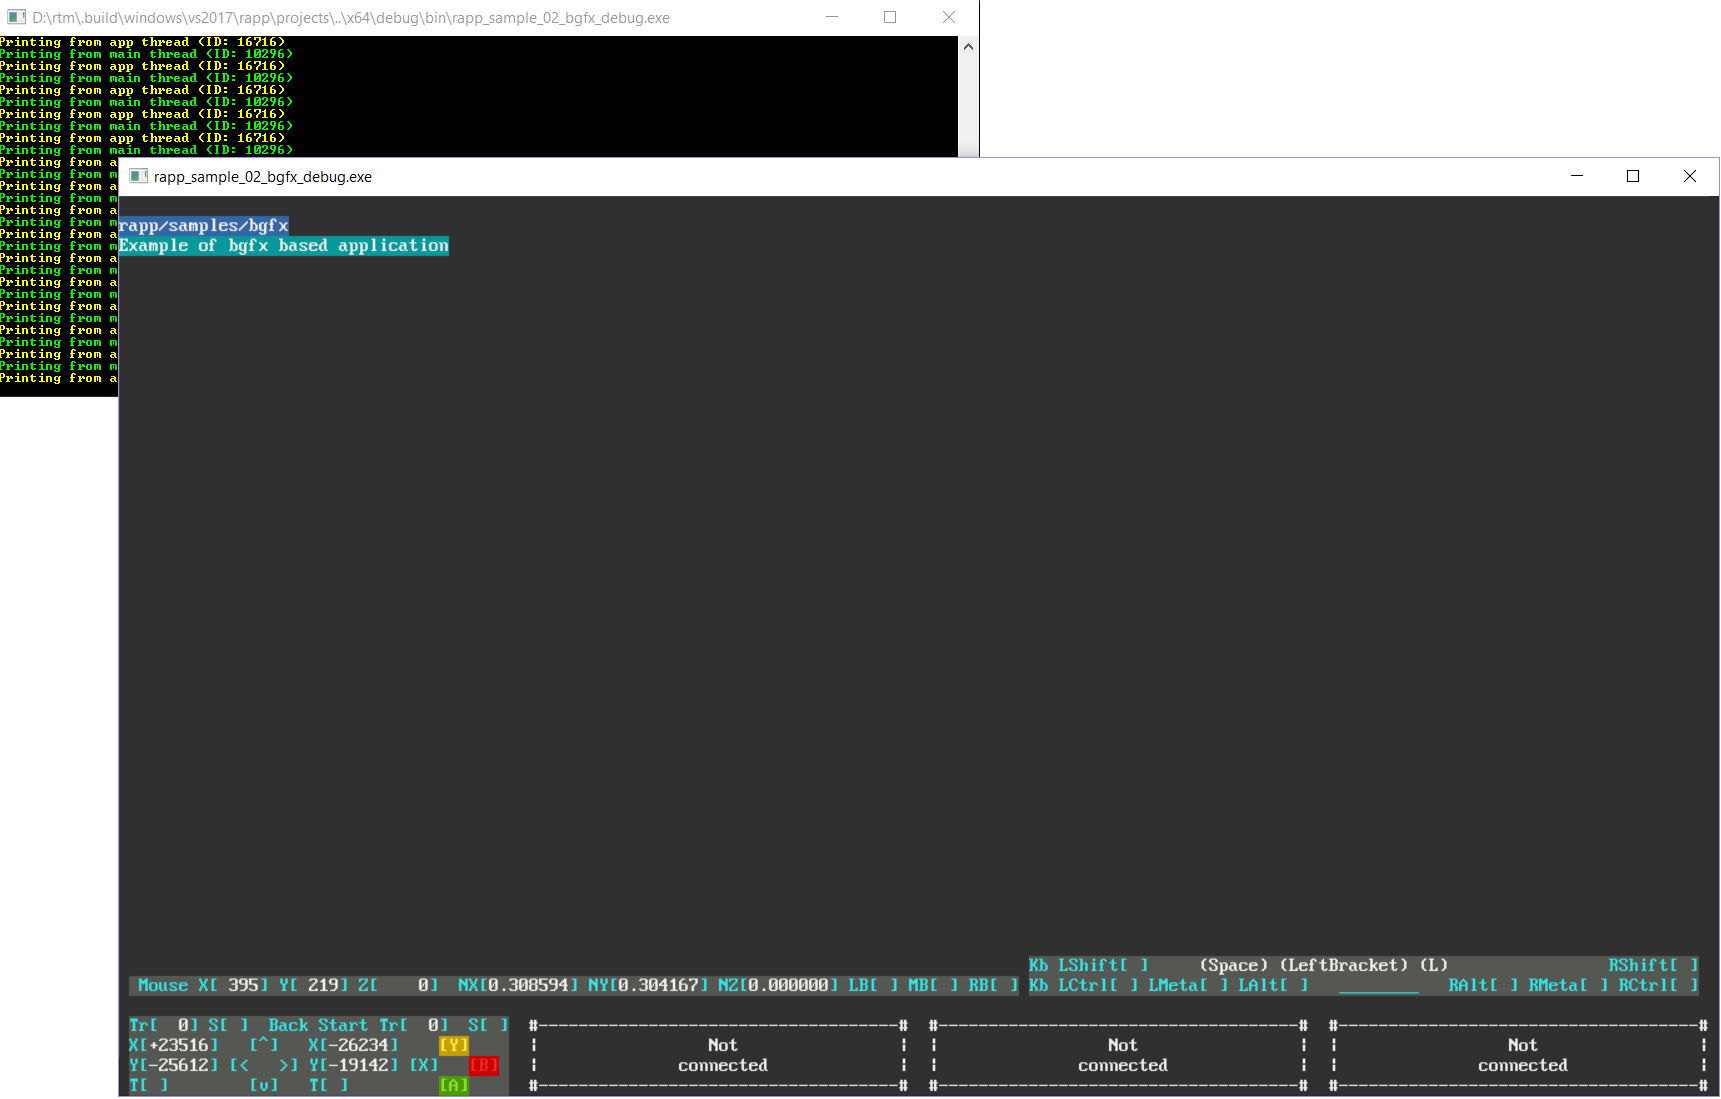
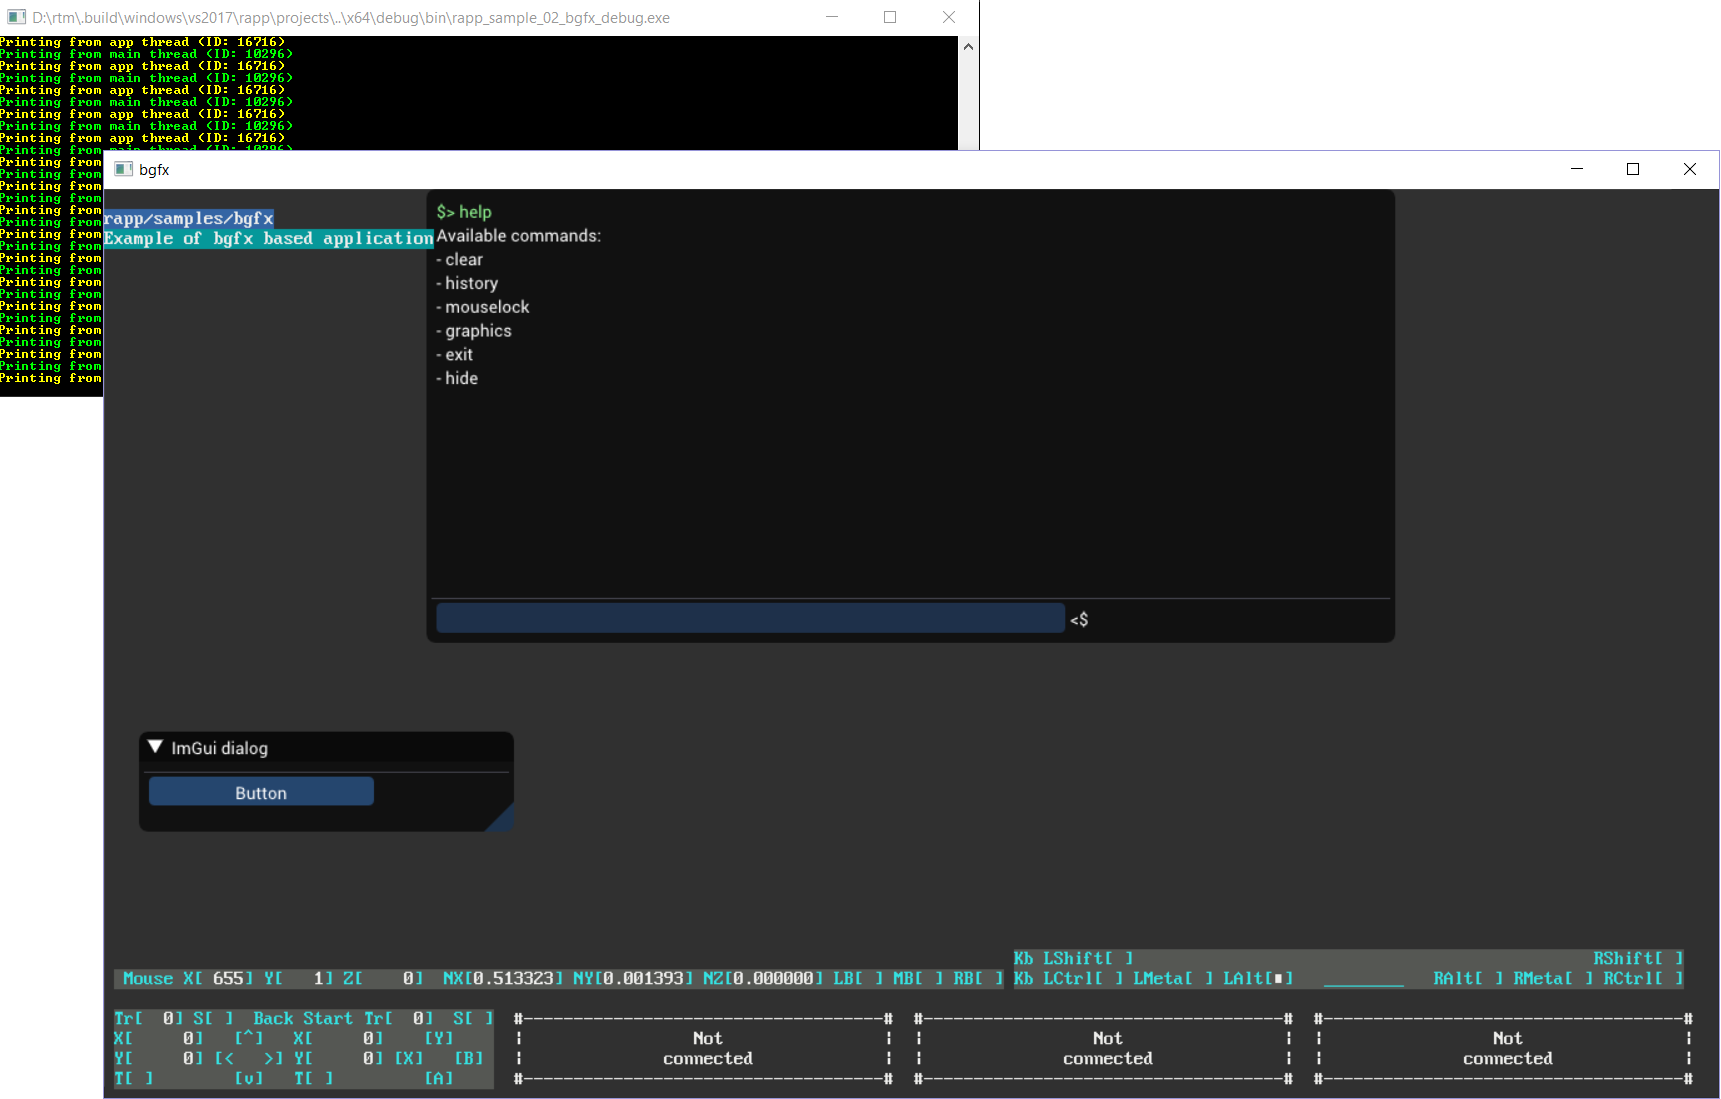
update screenshot

diff --git a/README.md b/README.md
@@ -31,7 +31,7 @@ Features
 
 **rapp** is in an early stage and there will be more features and platform support coming, like: multiple applications, NanoVG integration...
 
-Here's a screenshot of a [bgfx](https://github.com/bkaradzic/bgfx) sample showing input debugging:  
+Here's a screenshot of a [bgfx](https://github.com/bkaradzic/bgfx) sample showing input debugging, [ImGui](https://github.com/ocornut/imgui) dialog and Quake like console:  
 <img src="https://github.com/milostosic/rapp/blob/master/img/input_debug.png">
 
 Platform support
